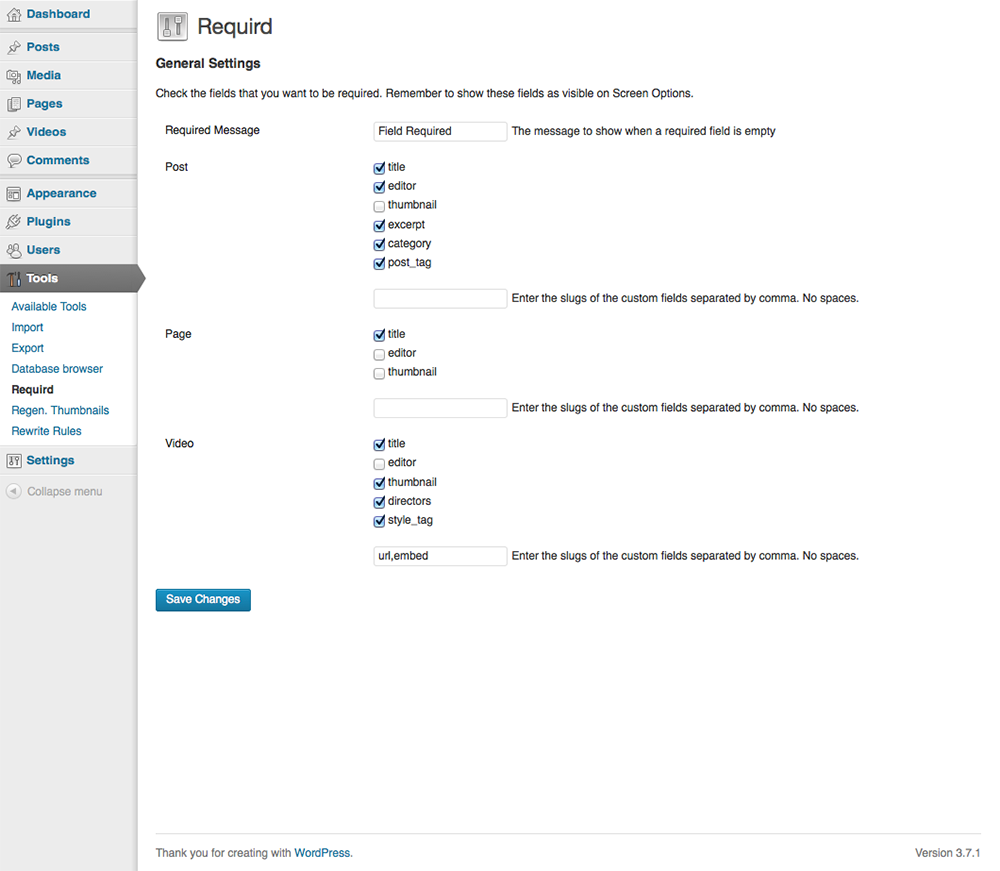
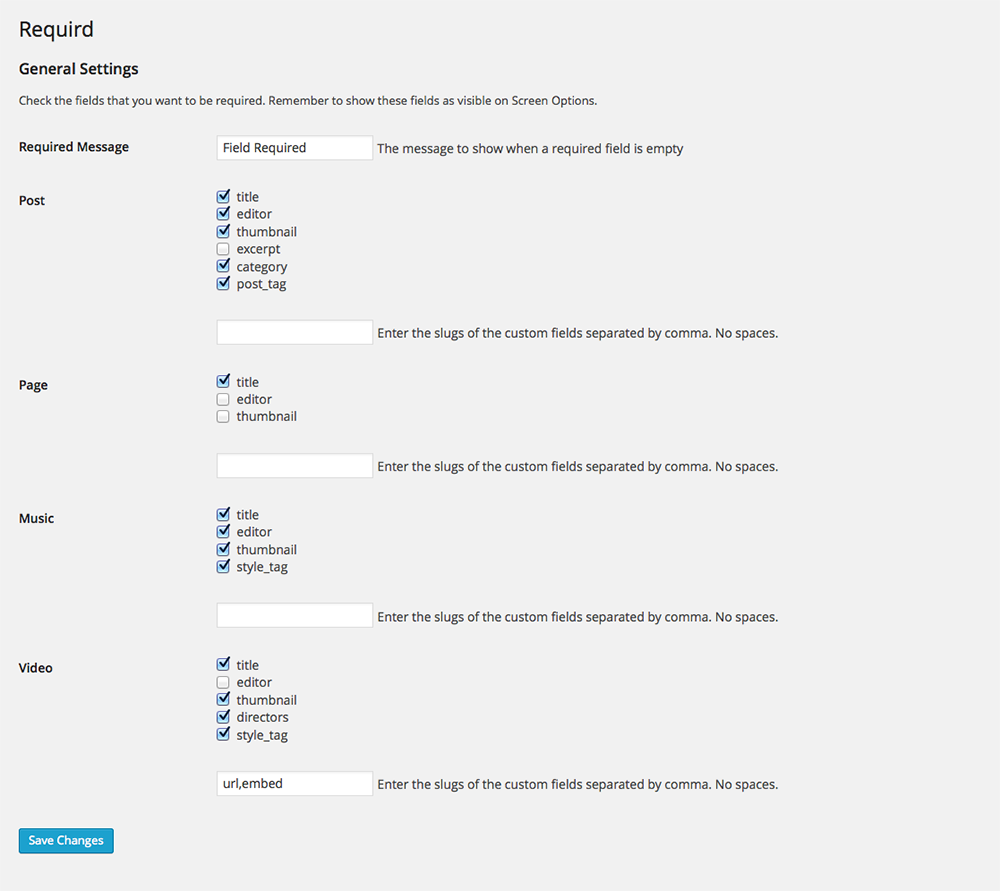
1.2.2

diff --git a/requird.js b/requird.js
@@ -3,109 +3,134 @@ Plugin Name: Requird
 Plugin URI: http://kollectiv.org/requird
 Description: Require fields for WP-Admin
 Writer: Gil Barbara
-Version: 1.0.1
+Version: 1.2.2
 Writer URI: http://kollectiv.org
 */
 
-jQuery(document).ready(function($) {
-
-	var fieldContainers = {
-		title: '#titlediv',
-		editor: '#postdivrich',
-		excerpt: '#postexcerpt',
-		thumbnail: '#postimagediv'
-	};
-
-	$('form').on('submit', function(){
-		var requird = { 
+function requirdformSubmit() {
+	var $ = jQuery,
+		fieldContainers = {
+			title: '#titlediv',
+			editor: '#postdivrich',
+			excerpt: '#postexcerpt',
+			thumbnail: '#postimagediv'
+		},
+		requird = {
 			post_type: $('#post_type').val(),
 			fields: requirdOptions[$('#post_type').val()],
 			message: '<div class="requird-fields" style="color:red; font-weight: bold; font-size: 18px; margin:10px 0;">' + requirdOptions.error_message + '</div>',
 			errors: 0
 		};
 
-		if (typeof(requird.fields) != 'undefined' && requird.fields.length) {
-			for(key in requird.fields) {
-				if (requird.fields.hasOwnProperty(key)) {
-					requird.$parent = $(fieldContainers[requird.fields[key]]);
-					requird.$tag = $('#tagsdiv-'+requird.fields[key]);
-					requird.$category = $('#'+requird.fields[key]+'checklist');
-					if (requird.$parent.size()) {
-						if (requird.fields[key] === 'editor') {
-							// todo: add plain editor (content), add categories and tags in the section
-							if ((tinyMCE.activeEditor && !tinyMCE.activeEditor.getContent().length) || !$('#content').val().length) {
-								if (!requird.$parent.find('.requird-fields').size()) requird.$parent.append(requird.message);
-								requird.errors++;
+	if (typeof(requird.fields) !== 'undefined' && requird.fields.length) {
+		tinyMCE.triggerSave();
+		for(var key in requird.fields) {
+			if (requird.fields.hasOwnProperty(key)) {
+				requird.$parent = $(fieldContainers[requird.fields[key]]);
+				requird.$tag = $('#tagsdiv-'+requird.fields[key]);
+				requird.$category = $('#'+requird.fields[key]+'checklist');
+				if (requird.$parent.size()) {
+					if (requird.fields[key] === 'editor') {
+						if (!$('#content').val().length) {
+							if (!requird.$parent.find('.requird-fields').size()) {
+								if (requird.$parent.find('.inside').size()) {
+									requird.$parent.find('.inside').append(requird.message);
+								} else {
+									requird.$parent.append(requird.message);
+								}
 							}
-							else {
-								requird.$parent.find('.requird-fields').remove();
-							}
-						}
-						else if (requird.fields[key] === 'thumbnail') {
-							if (!$('#remove-post-thumbnail').size()) {
-								if (!requird.$parent.find('.requird-fields').size()) requird.$parent.find('.inside').append(requird.message);
-								requird.errors++;
-							}
-							else {
-								requird.$parent.find('.requird-fields').remove();
-							}
+							requird.errors++;
 						}
 						else {
-							if (!requird.$parent.find(':input').val().length) {
-								if (!requird.$parent.find('.requird-fields').size()) requird.$parent.find('.inside').prepend(requird.message);
-								requird.errors++;
-							}
-							else if (requird.$parent.find(':input').val().length) {
-								requird.$parent.find('.requird-fields').remove();
-							}
+							requird.$parent.find('.requird-fields').remove();
 						}
 					}
-					else if (requird.$tag.size()) {
-						requird.$parent = $('#'+requird.fields[key]);
-						if(!requird.$parent.find('.tagchecklist').children().size()) {
-							if (!requird.$parent.find('.requird-fields').size()) requird.$parent.append(requird.message);
+					else if (requird.fields[key] === 'thumbnail') {
+						if (!$('#remove-post-thumbnail').size()) {
+							if (!requird.$parent.find('.requird-fields').size()) {
+								requird.$parent.find('.inside').append(requird.message);
+							}
+							requird.errors++;
+						}
+						else {
+							requird.$parent.find('.requird-fields').remove();
+						}
+					}
+					else {
+						if (!requird.$parent.find(':input').val().length) {
+							if (!requird.$parent.find('.requird-fields').size()) {
+								requird.$parent.find('.inside').prepend(requird.message);
+							}
+							requird.errors++;
+						}
+						else if (requird.$parent.find(':input').val().length) {
+							requird.$parent.find('.requird-fields').remove();
+						}
+					}
+				}
+				else if (requird.$tag.size()) {
+					requird.$parent = $('#'+requird.fields[key]);
+					if(!requird.$parent.find('.tagchecklist').children().size()) {
+						if (!requird.$parent.find('.requird-fields').size()) {
+							requird.$parent.append(requird.message);
+						}
+						requird.errors++;
+					} else {
+						requird.$parent.find('.requird-fields').remove();
+					}
+				}
+				else if(requird.$category.size()) {
+					requird.$parent = $('#taxonomy-'+requird.fields[key]);
+					if(!requird.$category.find(':input[type=checkbox]:checked').size()) {
+						if (!requird.$parent.find('.requird-fields').size()) {
+							$('#'+requird.fields[key]+'-all').after(requird.message);
+						}
+						requird.errors++;
+					} else if (requird.$category.size()) {
+						requird.$parent.find('.requird-fields').remove();
+					}
+				}
+			}
+		}
+	}
+	if (typeof(requirdOptions[requird.post_type+'-custom']) !== 'undefined' && requirdOptions[requird.post_type+'-custom'].length) {
+		requird.custom = requirdOptions[requird.post_type+'-custom'].replace(' ', '').split(',');
+		if (requird.custom.length) {
+			tinyMCE.triggerSave();
+			for (var key2 in requird.custom) {
+				if (requird.custom.hasOwnProperty(key2)) {
+					requird.$parent = $('#' + requird.custom[key2] + 'div');
+					requird.$custom = $('#' + requird.custom[key2]);
+					if (requird.$custom.size() && requird.$custom.is(':input')) {
+						requird.$parent = $('#'+requird.custom[key2]+'div');
+						if (!requird.$custom.val().length) {
+							if (!requird.$parent.find('.requird-fields').size()) {
+								requird.$parent.find('.inside').append(requird.message);
+							}
 							requird.errors++;
 						} else {
 							requird.$parent.find('.requird-fields').remove();
 						}
 					}
-					else if(requird.$category.size()) {
-						requird.$parent = $('#taxonomy-'+requird.fields[key]);
-						if(!requird.$category.find(':input[type=checkbox]:checked').size()) {
-							if (!requird.$parent.find('.requird-fields').size()) $('#'+requird.fields[key]+'-all').after(requird.message);
-							requird.errors++;
-						} else if (requird.$category.size()) {
-							requird.$parent.find('.requird-fields').remove();
-						}
-					}
 				}
 			}
 		}
-		if (typeof(requirdOptions[requird.post_type+'-custom']) != 'undefined' && requirdOptions[requird.post_type+'-custom'].length) {
-			requird.custom = requirdOptions[requird.post_type+'-custom'].split(',');
-			console.log(requird);
-			if (requird.custom.length) {
-				for (key in requird.custom) {
-					if (requird.custom.hasOwnProperty(key)) {
-						requird.$parent = $('#'+requird.custom[key]+'div');
-						requird.$custom = $('#'+requird.custom[key]);
-						if (requird.$custom.size() && requird.$custom.is(':input')) {
-							requird.$parent = $('#'+requird.custom[key]+'div');
-							if (!requird.$custom.val().length) {
-								if (!requird.$parent.find('.requird-fields').size()) requird.$parent.find('.inside').append(requird.message);
-								requird.errors++;
-							} else {
-								requird.$parent.find('.requird-fields').remove();
-							}
-						}
-					}
-				}
-			}
+	}
+
+	if (requird.errors) {
+		$('.spinner').hide();
+		$('#save-post').removeClass('button-disabled');
+		$('#publish').removeClass('button-primary-disabled');
+		return false;
+	}
+}
+
+jQuery(document).ready(function($) {
+
+	$('form#post').on('submit', function() {
+		if ($('#post_status').val() === 'publish' || ($('#publishing-action').find('.spinner').is(':visible') && $('#publish').prop('name') === 'publish')) {
+			return requirdformSubmit();
 		}
-		if (requird.errors) {
-			$('#publishing-action').find('.spinner').hide();
-			$('#publish').removeClass('button-primary-disabled');
-			return false;
-		}
+
 	});
 });

diff --git a/requird.php b/requird.php
@@ -4,18 +4,27 @@ Plugin Name: Requird
 Plugin URI: http://kollectiv.org/requird
 Description: Require fields for WP-Admin
 Writer: Gil Barbara
-Version: 1.0.1
+Version: 1.2.2
 Writer URI: http://kollectiv.org
 */
 
 function requirdStart() {
 	wp_enqueue_script(
-		'requird', //?width='.$options['width'].'&height='.$options['height']
+		'requird',
 		plugins_url( '/requird.js' , __FILE__ ),
 		array( 'jquery' )
 	);
 	wp_localize_script('requird', 'requirdOptions', get_option('requird'));
 }
+
+function requird_settings_link($action_links,$plugin_file){
+	if($plugin_file==plugin_basename(__FILE__)){
+		$requird_settings_link = '<a href="tools.php?page=' . dirname(plugin_basename(__FILE__)) . '">' . __("Settings") . '</a>';
+		array_unshift($action_links,$requird_settings_link);
+	}
+	return $action_links;
+}
+add_filter('plugin_action_links','requird_settings_link',10,2);
 
 add_action('edit_form_advanced', 'requirdStart');
 add_action('edit_page_form', 'requirdStart');

diff --git a/requird-settings.php b/requird-settings.php
@@ -31,7 +31,7 @@ class Requird {
 		// Initialize options
 		add_action('admin_init', array(&$this, 'initialize_options'));
 		// Settings page actions
-		$this->version = '1.0.1';
+		$this->version = '1.2.2';
 	}
 
 	// Set options & possibly upgrade

diff --git a/README.md b/README.md
@@ -1,4 +1,5 @@
 requird
 =======
 
-Wordpress plugin to require users to fill selected fields before posting.
+A wordpress plugin to require users to fill selected fields before posting.
+[Wordpress plugin page](http://wordpress.org/plugins/requird/ "Wordpress plugin page")
